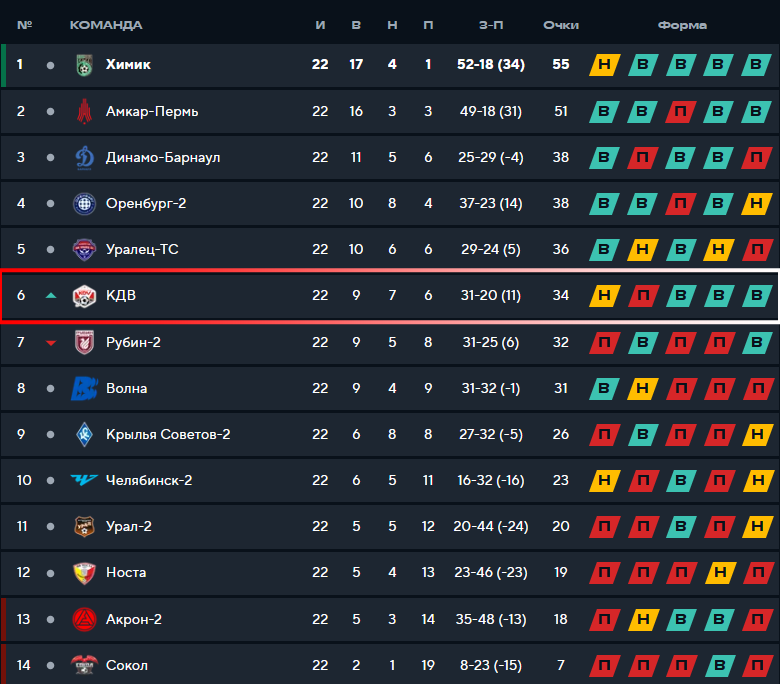
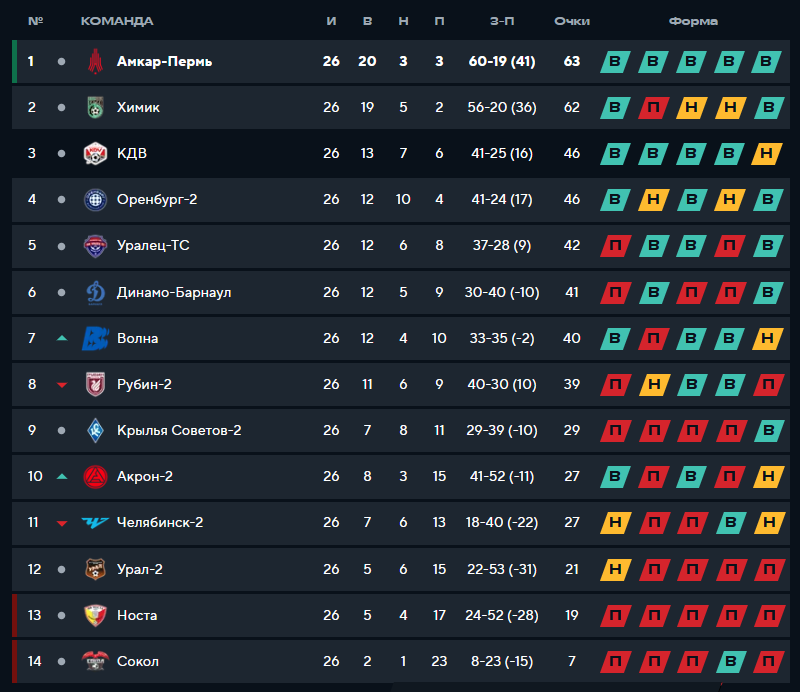
feat: конец сезона

diff --git a/main.py b/main.py
@@ -10,6 +10,8 @@ TOKEN = os.getenv("BOT_TOKEN")
 
 USERS_FILE = Path("users.json")
 TABLE_IMAGE = Path("static/table.png")
+PREV_MATCH_IMAGE = Path("static/prev.png")
+NEXT_MATCH_IMAGE = Path("static/next.jpg")
 
 WELCOME_TEXT = "Добро пожаловать! Нажмите на кнопку из меню."
 INFO_TEXT = (
@@ -18,24 +20,17 @@ INFO_TEXT = (
 )
 
 NEXT_MATCH = (
-    "✈ // 5 октября (вск)\n"
-    "ФК КДВ - Химик (Дзержинск)\n"
-    "24-ый тур Leon 2 Лига Б\n"
+    "🏠 Ждем следующий сезон... 🏠\n"
     "@boroda_tomsk_youtube"
 )
-NEXT_MATCH_URL = "https://fnl.pro/leon-b/matches/48986"
+NEXT_MATCH_URL = "https://t.me/boroda_tomsk_youtube"
 
 PREV_MATCH = (
-    "🏠 // Волевая победа\n"
-    "28 сентября (вск)\n"
-    "Крылья Советов-2 (Самара) 1-3 ФК КДВ\n"
-    "23-ий тур Leon 2 Лига Б\n"
+    "🏠 ПОСЛЕДНИЙ МАТЧ СЕЗОНА 🏠\n"
+    "МОЩНЫЙ КАМБЭК, волевая ПОБЕДА!\n"
     "@boroda_tomsk_youtube"
 )
-PREV_MATCH_URL = "https://fnl.pro/leon-b/matches/48960"
-
-FREE_SHIRT = 'Розыгрыш формы ФК КДВ в моем ТГ-канале @boroda_tomsk_youtube'
-FREE_SHIRT_URL = 'https://t.me/boroda_tomsk_youtube/632'
+PREV_MATCH_URL = "https://fnl.pro/leon-b/matches/49029"
 
 
 def save_user(user_id: int, username: str):
@@ -67,8 +62,7 @@ def start(update: Update, context: CallbackContext):
     keyboard = [
         ["Перезапустить бота", "Инфо"],
         ["Актуальная таблица"],
-        ["Предыдущий матч", "Ближайший матч"],
-        ["Розыгрыш формы ФК КДВ"]
+        ["Предыдущий матч", "Ближайший матч"]
     ]
     reply_markup = ReplyKeyboardMarkup(
         keyboard, resize_keyboard=True, one_time_keyboard=False)
@@ -86,27 +80,21 @@ def handle_message(update: Update, context: CallbackContext):
     elif text == "Инфо":
         safe_send(context.bot, chat_id, INFO_TEXT)
     elif text == "Актуальная таблица":
-        if TABLE_IMAGE.exists():
-            safe_send(context.bot, chat_id,
-                      "🏆 Актуальная таблица Leon Лига Б, группа 4 \n@boroda_tomsk_youtube",
-                      photo=TABLE_IMAGE)
-        else:
-            safe_send(context.bot, chat_id, "Файл таблицы не найден.")
+        safe_send(context.bot, chat_id,
+                  "🏆 Финальная таблица сезона 2025 Leon Лига Б, группа 4 \n@boroda_tomsk_youtube",
+                  photo=TABLE_IMAGE)
     elif text == "Ближайший матч":
         buttons = [[InlineKeyboardButton(
             "Ссылка на матч", url=NEXT_MATCH_URL)]]
         markup = InlineKeyboardMarkup(buttons)
-        safe_send(context.bot, chat_id, NEXT_MATCH, reply_markup=markup)
+        safe_send(context.bot, chat_id, NEXT_MATCH,
+                  reply_markup=markup, photo=NEXT_MATCH_IMAGE)
     elif text == "Предыдущий матч":
         buttons = [[InlineKeyboardButton(
             "Статистика матча", url=PREV_MATCH_URL)]]
         markup = InlineKeyboardMarkup(buttons)
-        safe_send(context.bot, chat_id, PREV_MATCH, reply_markup=markup)
-    elif text == "Розыгрыш формы ФК КДВ":
-        buttons = [[InlineKeyboardButton(
-            "Розыгрыш формы ФК КДВ", url=FREE_SHIRT_URL)]]
-        markup = InlineKeyboardMarkup(buttons)
-        safe_send(context.bot, chat_id, FREE_SHIRT, reply_markup=markup)
+        safe_send(context.bot, chat_id, PREV_MATCH,
+                  reply_markup=markup, photo=PREV_MATCH_IMAGE)
 
 
 def main():
